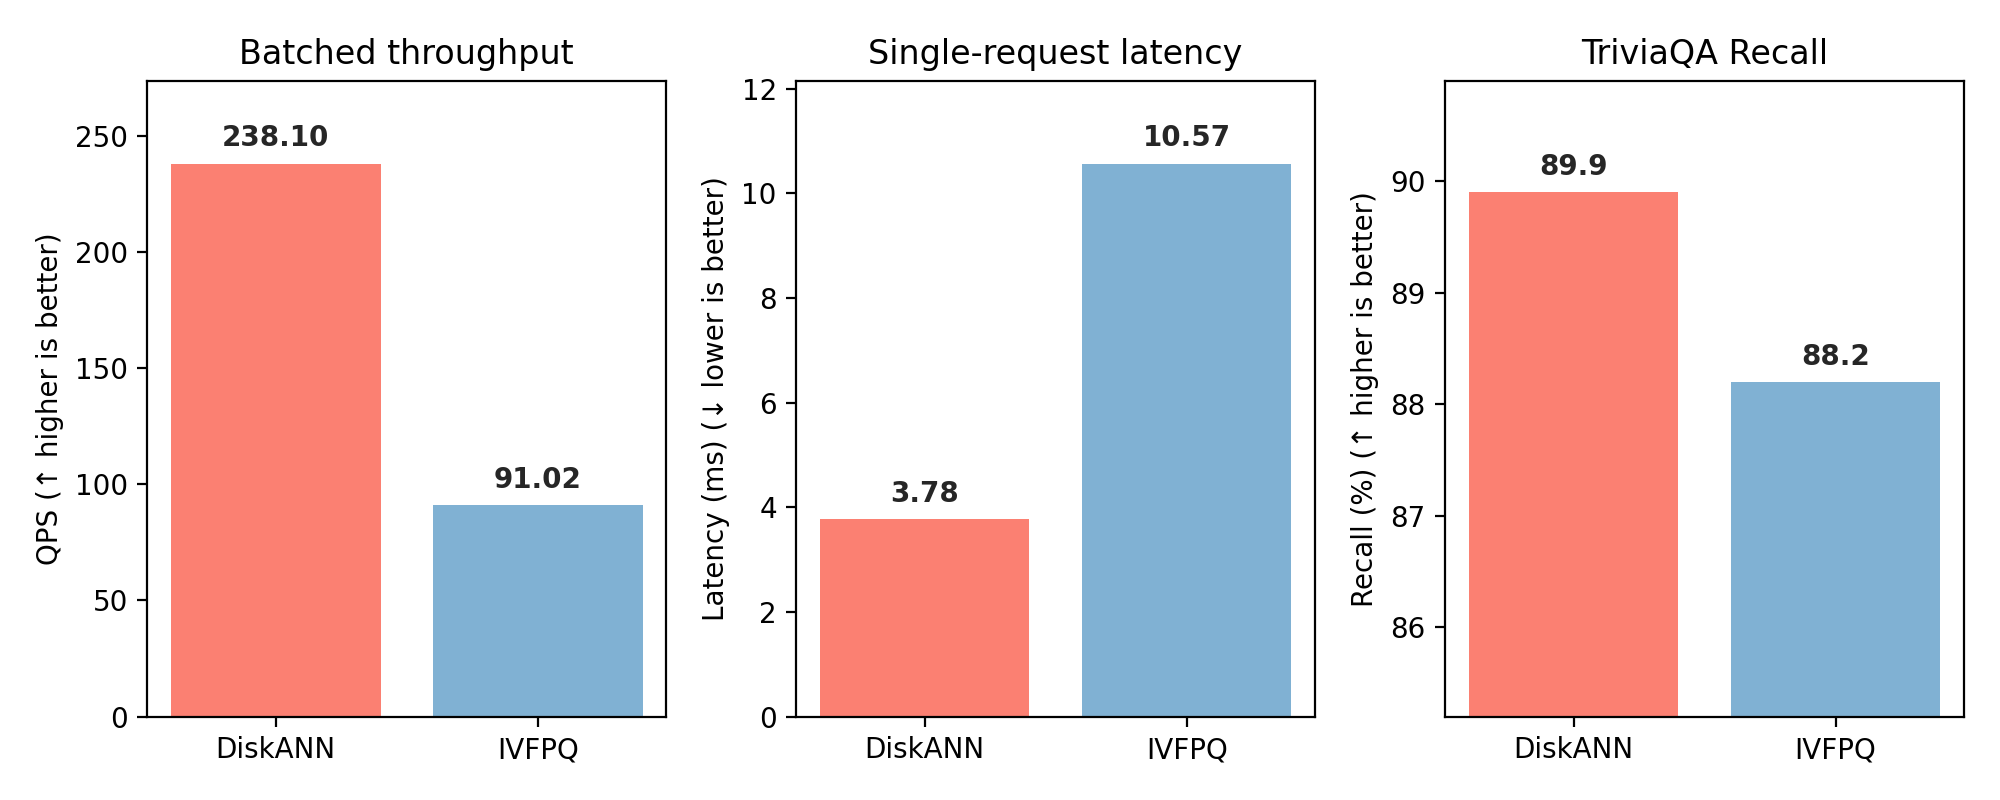
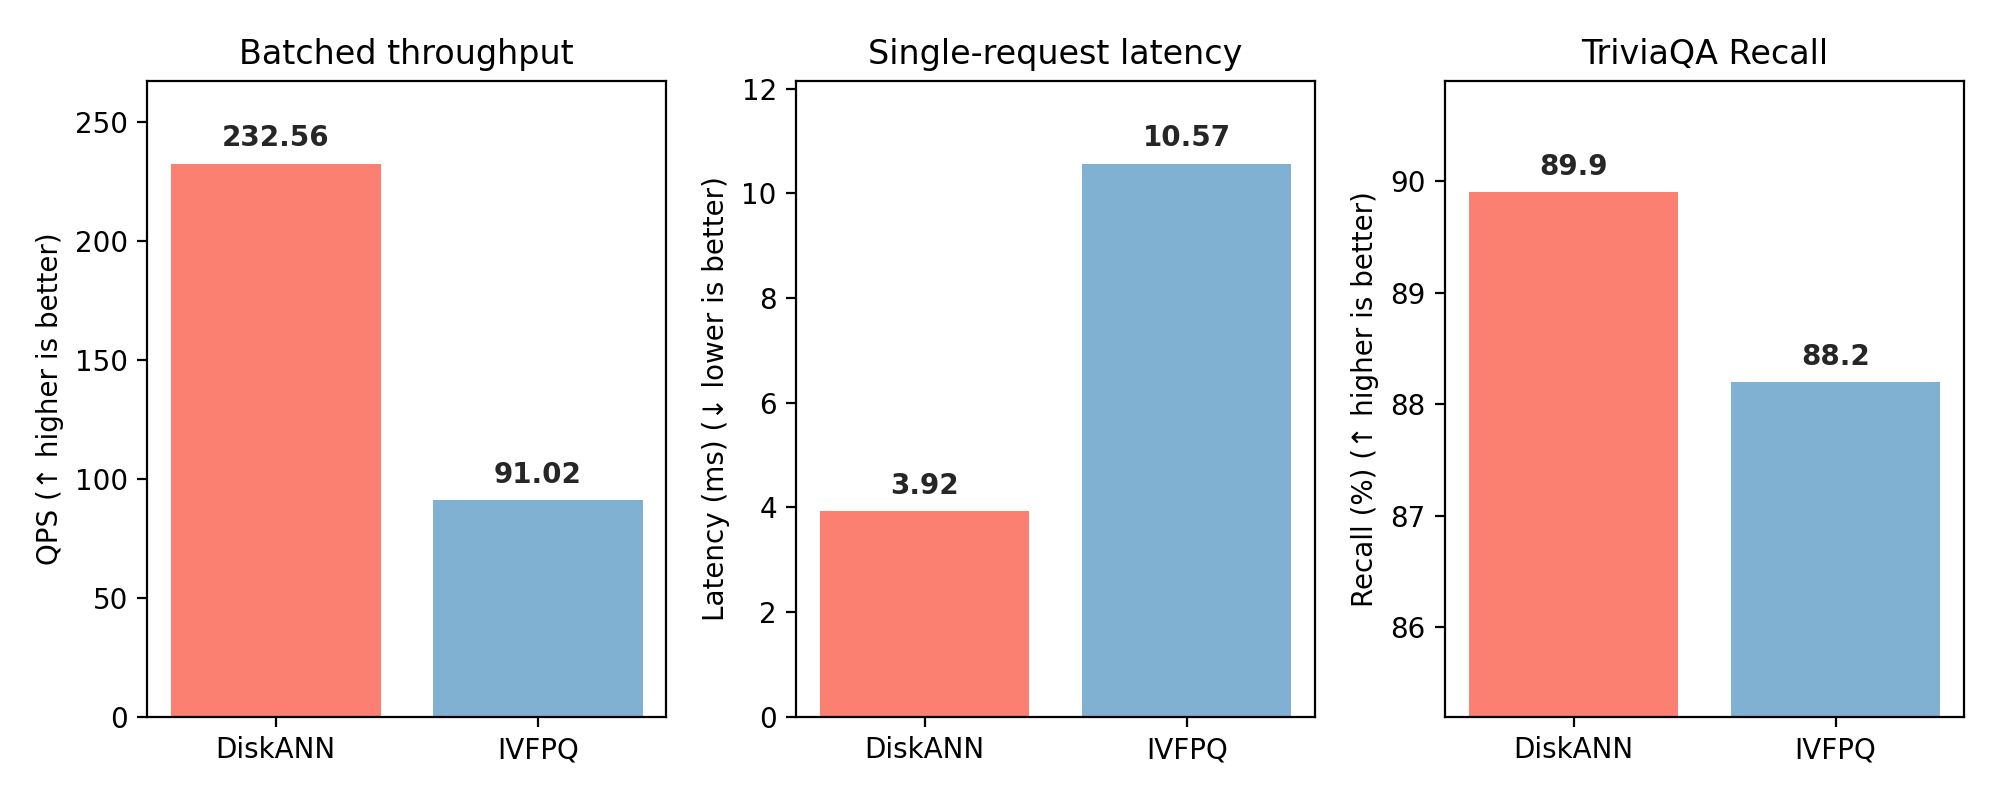
more more more fixes

diff --git a/scripts/plot_diskann_vs_ivfpq_combined.py b/scripts/plot_diskann_vs_ivfpq_combined.py
@@ -22,12 +22,12 @@ def main() -> None:
         "IVFPQ": "#80b1d3",    # blue
     }
     
-    # Data for recommended configs: DiskANN L=1000, IVFPQ nprobe=256
+    # Data for recommended configs: DiskANN L=2000, IVFPQ nprobe=256
     # Throughput (batched QPS)
-    throughput = {"DiskANN (L=1000)": 238.10, "IVFPQ (nprobe=256)": 91.02}
+    throughput = {"DiskANN (L=2000)": 232.56, "IVFPQ (nprobe=256)": 91.02}
     
     # Latency (single-request, ms)
-    latency = {"DiskANN (L=1000)": 3.78, "IVFPQ (nprobe=256)": 10.57}
+    latency = {"DiskANN (L=2000)": 3.92, "IVFPQ (nprobe=256)": 10.57}
     
     # Accuracy (TriviaQA Recall as representative metric)
     accuracy = {"DiskANN (L=5000)": 89.9, "IVFPQ (nprobe=256)": 88.2}

diff --git a/docs/index.md b/docs/index.md
@@ -200,7 +200,6 @@ details > summary {
        style="width: 48%; margin: 5px; border-radius: 8px; box-shadow: 0 2px 6px rgba(0,0,0,0.15);" />
 </p>
 <p align="center" class="small-note"><b>DS-Serve UI & control panel</b></p>
-<p align="center" class="small-note"><i>UI search &amp; vote demonstration</i></p>
 
 ### Why was it previously challenging?
 
@@ -287,7 +286,7 @@ In DS Serve we support both backends:
 </p>
 
 <h3 align="center">DiskANN vs IVFPQ</h3>
-<p>DiskANN is more accurate <i>and</i> faster than IVFPQ. At recommended configs (DiskANN L=1000, IVFPQ nprobe=256), DiskANN achieves <b>~2.6× higher throughput</b> and <b>~3× lower latency</b>. The internal DiskANN index reaches up to 10,000 QPS; DiskANN is the recommended default. Accuracy comparison uses DiskANN L=5000 and IVFPQ nprobe=256 on <a href="https://arxiv.org/abs/1705.03551" target="_blank">TriviaQA</a> and <a href="https://arxiv.org/abs/1906.00300" target="_blank">Natural Questions</a>.</p>
+<p>DiskANN is more accurate <i>and</i> faster than IVFPQ. At recommended configs (DiskANN L=2000, IVFPQ nprobe=256), DiskANN achieves <b>~2.6× higher throughput</b> and <b>~2.7× lower latency</b>. The internal DiskANN index reaches up to 10,000 QPS; DiskANN is the recommended default. Accuracy comparison uses DiskANN L=2000 and IVFPQ nprobe=256 on <a href="https://arxiv.org/abs/1705.03551" target="_blank">TriviaQA</a> and <a href="https://arxiv.org/abs/1906.00300" target="_blank">Natural Questions</a>.</p>
 <p align="center">
   <img src="{{ 'plots/diskann_vs_ivfpq_perf.png' | relative_url }}" alt="DiskANN vs IVFPQ throughput and latency" style="width: 32%; margin: 2px;" />
   <img src="{{ 'plots/accuracy_ivfpq_vs_diskann_triviaqa.png' | relative_url }}" alt="TriviaQA accuracy: DiskANN vs IVFPQ" style="width: 32%; margin: 2px;" />
@@ -296,9 +295,7 @@ In DS Serve we support both backends:
 <p align="center">
   <img src="{{ 'plots/internal_qps_diskann_vs_ivfpq.png' | relative_url }}" alt="Internal index QPS: DiskANN vs IVFPQ" style="width: 70%; margin: 8px;" />
 </p>
-<p class="small-note"><b>Internal QPS:</b> Raw index search throughput without embedding or network overhead. DiskANN achieves <b>~10-50× higher</b> internal throughput than IVFPQ across comparable settings (e.g., L=1000: 1,885 QPS vs nprobe=128: 159 QPS).</p>
-<p class="small-note"><b>Metrics:</b> Recall = fraction of questions where at least one retrieved passage contains the gold answer; EM (Exact Match) = generated answer exactly matches gold; F1 = token-level overlap between generated and gold answers.</p>
-<p class="small-note"><b>Note:</b> IVFPQ remains available as a legacy mode for experimentation. Latency measures end-to-end wall-clock time.</p>
+<p class="small-note"><b>Note:</b> L≈150 is sufficient for most queries; higher L improves accuracy for harder queries but remains fast. Internal QPS shows raw index throughput (no embedding/network overhead). Metrics: Recall = passage contains gold answer; EM = exact match; F1 = token overlap. IVFPQ available as legacy mode.</p>
 <hr />
 
 
